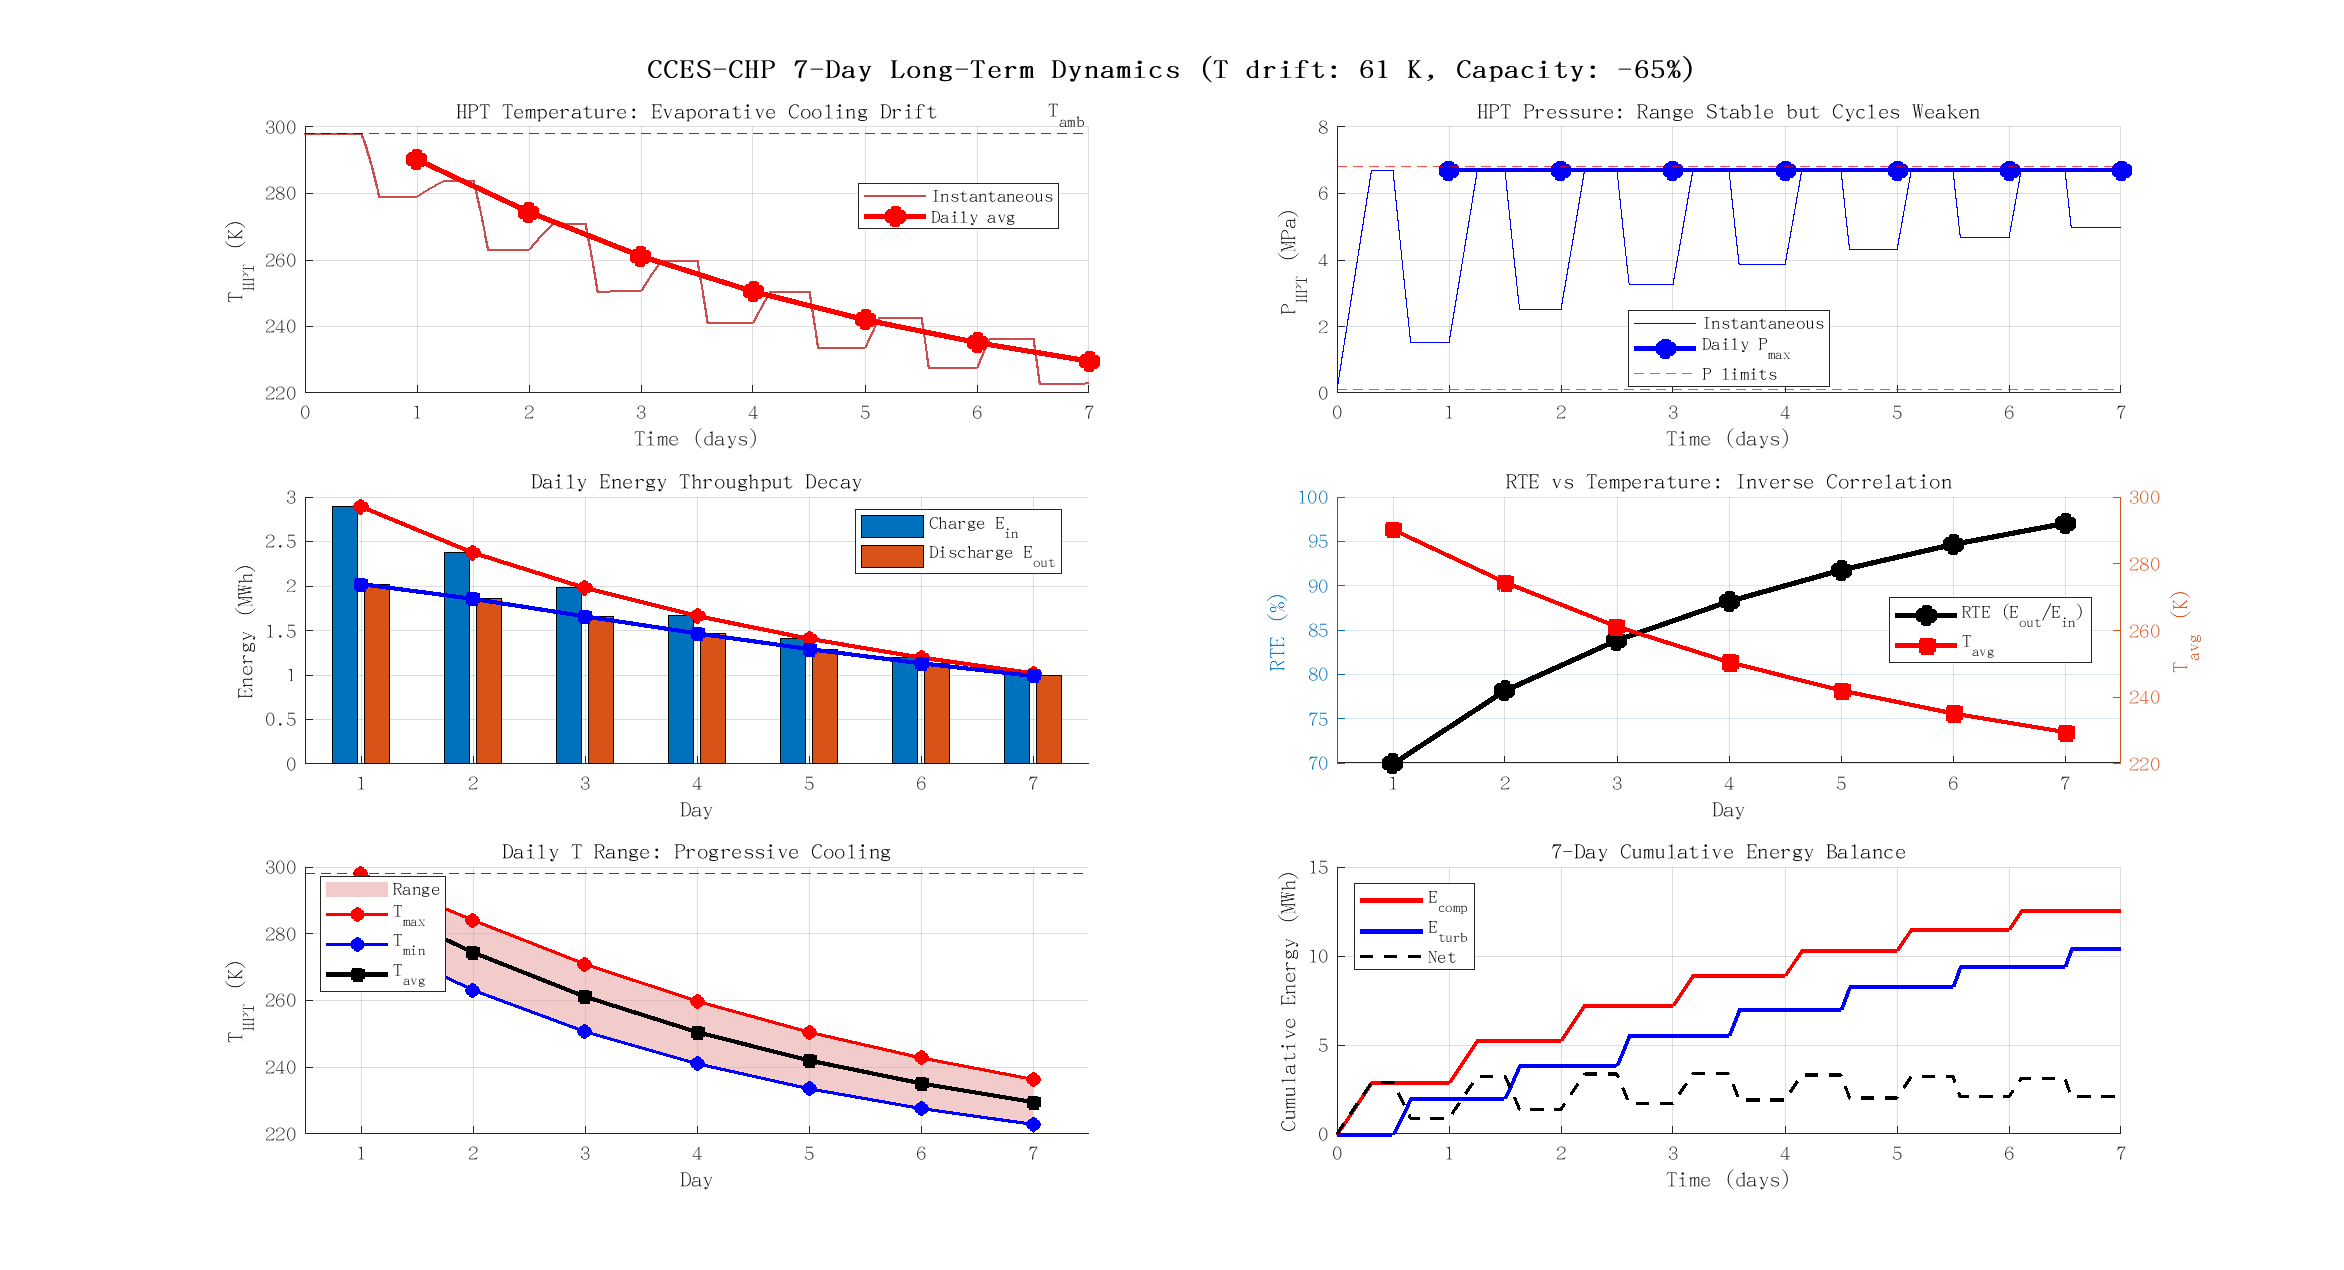
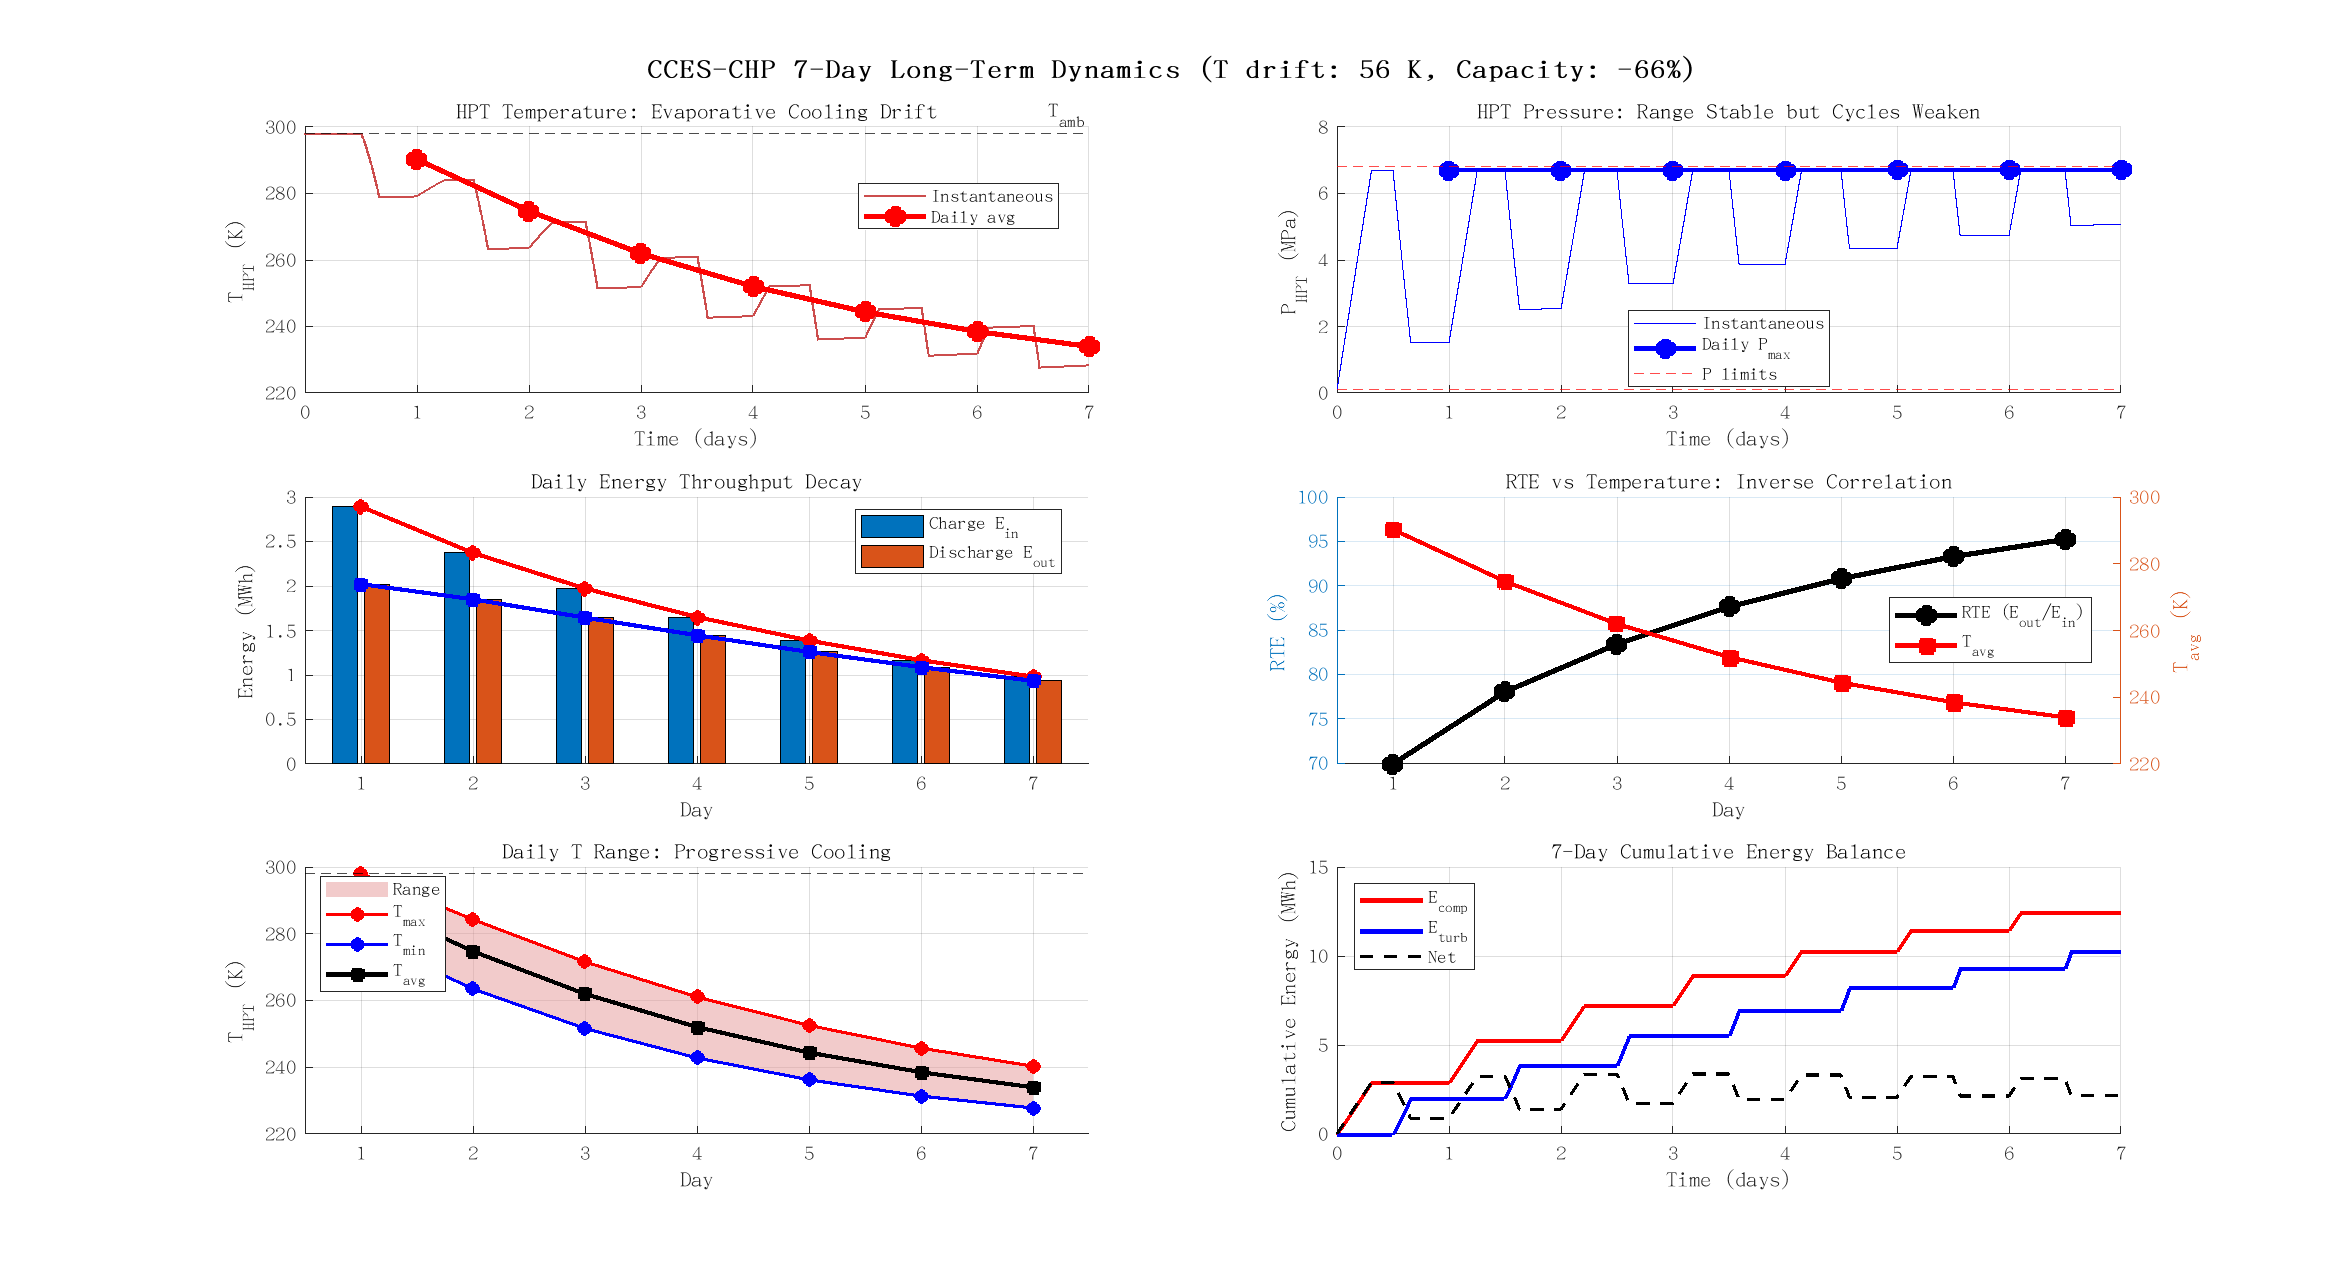
fix: increase HPT ambient heat transfer to 0.5 MW/K, document steady-state
Enhanced k_amb from 0.1 to 0.5 MW/K. Even with stronger coupling,
temperature still drifts 290→234K over 7 days (-56K). Evaporative
cooling (~2 MW) overwhelms passive heat gain. System requires
active thermal management for long-duration operation.

diff --git a/CCES_CHP_Simulink/src/build_CCES_model.m b/CCES_CHP_Simulink/src/build_CCES_model.m
@@ -431,10 +431,10 @@ function build_storage(parent)
     set_param(b('mux_t'), 'Inputs', '4', 'Position', [260, 150, 275, 250]);
 
     % dT/dt = (m_in*(298-T) + k_amb*(298-T) - m_out*L*1000/cp) / M_char
-    % M_char=2e6 kg 热惯性, k_amb=0.1 MW/K 环境传热
+    % M_char=2e6 kg, k_amb=0.5 MW/K (增强环境换热, 模拟储罐换热器)
     add_block('simulink/User-Defined Functions/Fcn', b('dTdt'));
-    set_param(b('dTdt'), 'Position', [310, 180, 430, 240], ...
-        'Expr', '(u(1)*(298-u(4))+0.1*(298-u(4))-u(2)*u(3)*1000/2500)/2000000');
+    set_param(b('dTdt'), 'Position', [310, 180, 440, 240], ...
+        'Expr', '(u(1)*(298-u(4))+0.5*(298-u(4))-u(2)*u(3)*1000/2500)/2000000');
 
     add_block('simulink/Continuous/Integrator', b('T_tank'));
     set_param(b('T_tank'), 'Position', [460, 190, 510, 230], ...
